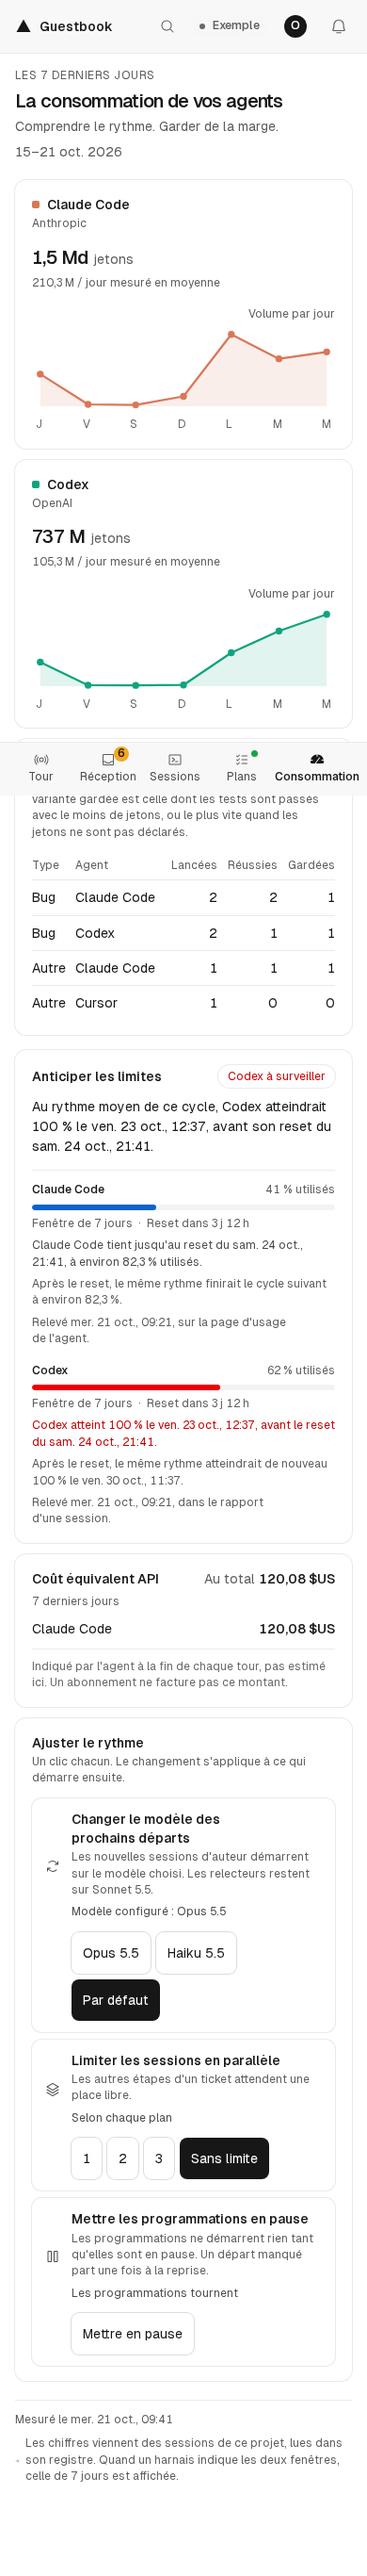
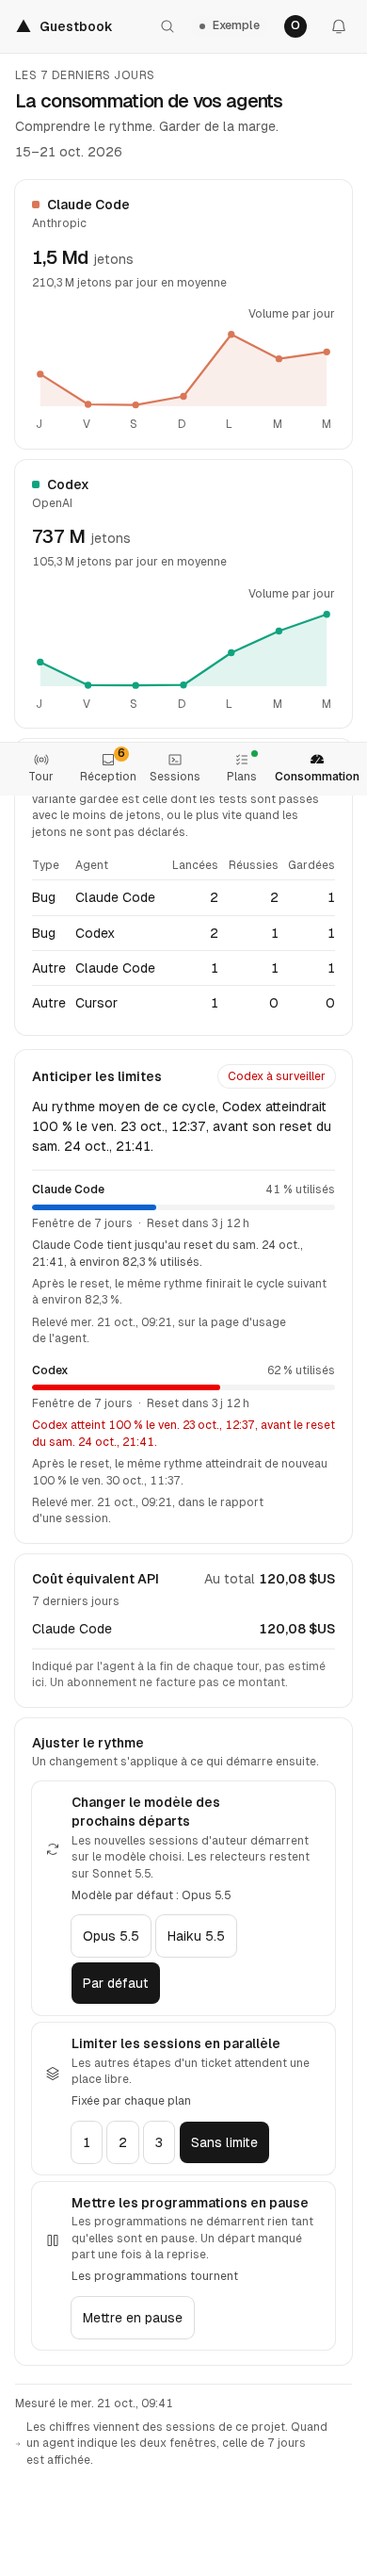
fix(v2): Consumption's words from the art director's pass, and the wins table's phone gap (lane j3-ui-polish, P221)
The per-day average has its unit; the footer says neither ledger nor
harness; the levers drop "One click each" and say "Default model" and
"Set by each plan"; the wins table's columns sit 6 px apart under 480 px
(10 px to spare in French at 375); the phone test waits for the fonts and
measures the table at min-content. The Consumption captures, retaken; the
log entry and the matrix line, updated.

diff --git a/v2/app/test/polish/phone-fit-browser.test.ts b/v2/app/test/polish/phone-fit-browser.test.ts
@@ -19,6 +19,8 @@ declare const document: any;
 declare const getComputedStyle: any;
 
 const WIDTHS = [375, 390] as const;
+// The page's own fonts, loaded: a width measured in the fallback font says nothing.
+const fontsReady = (page: any) => page.evaluate(() => document.fonts.ready.then(() => undefined));
 
 async function onPhone(language: 'en' | 'fr', width: number, run: (page: any, base: string) => Promise<void>): Promise<void> {
   const app = await startApp({ source: await fixtureSource({ now: () => FIXTURE_NOW }), extra: { language } });
@@ -51,6 +53,7 @@ for (const language of ['en', 'fr'] as const) {
       await onPhone(language, width, async (page, base) => {
         await page.goto(`${base}/consumption`);
         await page.locator('[data-wins="shown"]').waitFor();
+        await fontsReady(page);
         const wrapped = await page.locator('.wins-table th').evaluateAll((cells: any[]) => cells.flatMap((cell) => {
           const range = document.createRange();
           range.selectNodeContents(cell);
@@ -59,7 +62,14 @@ for (const language of ['en', 'fr'] as const) {
         }));
         assert.deepEqual(wrapped, [], 'no header on two lines');
         // Nor is the table wider than its panel: no column hidden behind a scroll (the art director's pass).
-        const box = await page.locator('.wins-scroll').evaluate((scroll: any) => ({ needs: scroll.scrollWidth, room: scroll.clientWidth }));
+        // The table's own width at its narrowest (min-content), not the 100 % it stretches to.
+        const box = await page.locator('.wins-scroll').evaluate((scroll: any) => {
+          const table = scroll.querySelector('table');
+          table.style.width = 'min-content';
+          const needs = Math.ceil(table.getBoundingClientRect().width);
+          table.style.width = '';
+          return { needs, room: scroll.clientWidth };
+        });
         assert.ok(box.needs <= box.room, `the table needs ${box.needs} px, its panel has ${box.room}`);
       });
     });
@@ -67,6 +77,7 @@ for (const language of ['en', 'fr'] as const) {
     test(`${language} at ${width}: a picked template's placeholder is said whole in the title's field`, { skip }, async () => {
       await onPhone(language, width, async (page) => {
         await page.locator('[data-bar="template"]').click();
+        await fontsReady(page);
         for (const id of ['bug', 'review', 'ci', 'question']) {
           await page.locator(`[data-template="${id}"]`).click();
           const fit = await page.locator('#ask-input').evaluate((input: any) => {

diff --git a/v2/app/test/consumption/model.test.ts b/v2/app/test/consumption/model.test.ts
@@ -132,10 +132,10 @@ test('the levers offer the models the owner may choose, never the reviewers\', a
   assert.deepEqual(model!.choices.map((c) => [c.label, c.pressed, c.change]), [
     ['Opus 5.5', false, { model: 'claude-opus-5-5' }], ['Haiku 5.5', false, { model: 'claude-haiku-5-5' }], ['Default', true, { model: null }],
   ]);
-  assert.equal(model!.state, 'Configured model: Opus 5.5');
+  assert.equal(model!.state, 'Default model: Opus 5.5');
   assert.match(model!.detail, /Reviewers stay on Sonnet 5\.5\./);
   assert.deepEqual(lanes!.choices.map((c) => [c.label, c.change]), [['1', { maxLanes: 1 }], ['2', { maxLanes: 2 }], ['3', { maxLanes: 3 }], ['No limit', { maxLanes: null }]]);
-  assert.equal(lanes!.state, 'As each plan says');
+  assert.equal(lanes!.state, 'Set by each plan');
   assert.deepEqual(pause!.choices.map((c) => [c.label, c.change]), [['Pause', { paused: true }]]);
   const on = leverViews({ model: { ...read().levers.model, choice: 'claude-haiku-5-5', current: 'claude-haiku-5-5' }, maxLanes: { choice: 1, options: [1, 2, 3] }, paused: true }, fr);
   assert.equal(on[0]!.state, 'Les nouveaux départs utilisent Haiku 5.5');

diff --git a/v2/app/web/screens/consumption/consumption.css b/v2/app/web/screens/consumption/consumption.css
@@ -101,7 +101,7 @@
 .wins-table .n { text-align: right; }
 /* The last column ends at the panel's edge; on a phone the columns sit closer, so the table fits its panel (P221). */
 .wins-table th:last-child, .wins-table td:last-child { padding-right: 0; }
-@media (max-width: 480px) { .wins-table th, .wins-table td { padding-right: 8px; } }
+@media (max-width: 480px) { .wins-table th, .wins-table td { padding-right: 6px; } }
 .wins-table .num { font-variant-numeric: tabular-nums; }
 .wins-empty { margin: 0; color: var(--text-muted); font-size: var(--text-md); }
 

diff --git a/docs/v2/decisions-log.md b/docs/v2/decisions-log.md
@@ -5703,22 +5703,25 @@ These pass on that code and are kept as guards: the map test, the tools assertio
 2. **The question card says nothing twice.** Its label is read out (`sr-only`), not drawn under the card's title; `plan_ask_opens` ("The answer opens on its own page…") is removed from both catalogs; the scope is one sentence: "Reads the base branch of guestbook, without this session's changes, and never edits the code." ("Lit la branche de base de guestbook, sans les changements de cette session, et ne modifie jamais le code."). Ask still answers an empty question with "Write the question first.", as lane `j3-plan-ask`'s browser test pins.
 3. **The agent pick's words.** "Cheapest" ("la moins coûteuse") was not the rule `flow/harness-pick.ts` applies: the subtitle and the inbox's rule now say "the fewest tokens, or in the shortest time when tokens are not reported". English says "agent pick", as the table's title and every French sentence say "agent", not "harness pick"; "Waiting for a lane" is "Waiting for a free slot" ("En attente d'une place libre"); French "Rien de commité" is "Aucun commit".
 4. **French Consumption says "jetons"**, as the session, the inbox, the questions and the receipt do (`consumption_usage_unit`, `consumption_day_usage`). No decision recorded "tokens" there: the commit that wrote it renamed the keys for the secrets guard and kept the value.
-5. **The wins table on a phone.** The headers are "Type" (not "Ticket type", which took three lines in French at 390) and keep one line; French agrees with "variantes" ("Lancées", "Gardées") and says "Réussies" for the green runs; the last column has no trailing padding and the columns sit 8 pixels apart under 480, so the table fits its panel at 375 and 390 in both languages.
+5. **The wins table on a phone.** The headers are "Type" (not "Ticket type", which took three lines in French at 390) and keep one line; French agrees with "variantes" ("Lancées", "Gardées") and says "Réussies" for the green runs; the last column has no trailing padding and the columns sit 6 pixels apart under 480, so the table fits its panel at 375 and 390 in both languages (in French at 375 its narrowest width is 297 pixels of 307).
 6. **The templates.** The title's placeholders are short ("What breaks", "Ce qui casse"…): "Ce qui casse, en quelques mots" was cut by New ticket at 390. The row of templates no longer starts with the word "Template", which the chip above it already says.
 7. **A release with no picture at all** says "No picture of this screen." ("Pas d'image de cet écran.") once, under the section's title, with no empty frame and no Computer/Phone switch; one picture on either side keeps the two frames. On a phone this brings the facts above the buttons.
 8. **The receipt.** No capture is "Captures: none taken" ("Captures : aucune"): the engine leaves the list empty for any reason, so the old "(the flow has no browser…)" guessed. The figures' source is "the agents", as on the ticket card, not "the harness". From the art director: "{parts} kept by Cleared, without a link" and "ran inside a larger command, so its result is unknown".
-9. **Durations.** Every duration on these screens already goes through `lib/time.ts` (`lasted`, `duration`), in the page's language; the shell's format ("3d 12h", "1 h 04") is not changed here.
-10. **Not taken, logged.** The composer, Hand over and Interrupt on a Done session (a change of behaviour); "Close" read as "close this panel" (the form it opens says "Close the ticket"); disabling Ask on an empty question (a pinned behaviour); one money format (P211 keeps four decimals under a dollar on purpose); the ticket card's tokens beside the session's (different scopes, no label); the plan-ask fixtures' session with no service (the card says "every service"); "Signed in as owner" in French; the bottom bar's "Consommation", which the mobile lane noted as a few pixels too wide (it fits its slot here at 375 and 390: each slot grows to its label; the test written for it passed on the old code and was dropped).
+9. **Consumption's words** (the art director's pass): the per-day average has its unit ("210.3M tokens per day on average", "210,3 M jetons par jour en moyenne"); the footer no longer says "ledger" or "harness" ("Figures come from this project's sessions. When an agent reports both windows, the seven-day one is shown."); the levers' "One click each." is gone ("A change applies to what starts next."); the model lever, on Default, says "Default model: Opus 5.5", not "Configured model"; the sessions lever says "Set by each plan" ("Fixée par chaque plan"), not "As each plan says".
+10. **Durations.** Every duration on these screens already goes through `lib/time.ts` (`lasted`, `duration`), in the page's language; the shell's format ("3d 12h", "1 h 04") is not changed here.
+11. **Not taken, logged.** The composer, Hand over and Interrupt on a Done session (a change of behaviour); "Close" read as "close this panel" (the form it opens says "Close the ticket"); disabling Ask on an empty question (a pinned behaviour); one money format (P211 keeps four decimals under a dollar on purpose); the ticket card's tokens beside the session's (different scopes, no label); the plan-ask fixtures' session with no service (the card says "every service"); the bottom bar's "Consommation", which the mobile lane noted as a few pixels too wide (it fits its slot here at 375 and 390: each slot grows to its label; the test written for it passed on the old code and was dropped).
 
-**Tests first.** `d02771a` adds five named captures to `scripts/capture-screens.ts` (consumption, tower-template, resolved, plan-ask, inbox-release) and the before set. `ae54daf` commits the tests alone: in `app/web/test/ui-polish.test.tsx`, seven of eight fail on that code (the eighth, a running ticket keeps its "yet", guards the other side); both tests of `test/flow/receipt-words.test.ts` fail; in `app/test/polish/phone-fit-browser.test.ts` the eight tests fail (each header on one line, each placeholder whole, at 375 and 390, in both languages). The art director's first item (below) added an assertion to that file, that the table fits its panel, which failed on `b5ecebc` at 375 in English and at 375 and 390 in French. The file is in the CI's `browser` job list. Assertions of earlier tests changed with the words, not as defect tests: `consumption-wins.test.tsx`, `inbox/harness-pick.test.tsx`, `inbox/render.test.tsx`, `session/plan-ask.test.tsx`, `tower-templates.test.tsx`, `i18n-audit.test.tsx` (`consumption_wins_type` joins the words both languages share, `consumption_usage_unit` leaves them), `app/test/session/plan-ask.test.ts`, `plan-ask-browser.test.ts`, `tower-templates-browser.test.ts`, `consumption/wins-browser.test.ts`, `test/flow/receipt.test.ts`.
+**Tests first.** `d02771a` adds five named captures to `scripts/capture-screens.ts` (consumption, tower-template, resolved, plan-ask, inbox-release) and the before set. `ae54daf` commits the tests alone: in `app/web/test/ui-polish.test.tsx`, seven of eight fail on that code (the eighth, a running ticket keeps its "yet", guards the other side); both tests of `test/flow/receipt-words.test.ts` fail; in `app/test/polish/phone-fit-browser.test.ts` the eight tests fail (each header on one line, each placeholder whole, at 375 and 390, in both languages). The art director's first item (below) added an assertion to that file, that the table fits its panel, which failed on `b5ecebc` at 375 in English and at 375 and 390 in French. The file is in the CI's `browser` job list; it waits for the page's fonts before it measures, and measures the table at its narrowest width (`min-content`), not the 100 % it stretches to. `06f5921` commits the test of Consumption's words alone: it failed on that code at its first assertion, in English (the average's unit). Assertions of earlier tests changed with the words, not as defect tests: `consumption-wins.test.tsx`, `inbox/harness-pick.test.tsx`, `inbox/render.test.tsx`, `session/plan-ask.test.tsx`, `tower-templates.test.tsx`, `i18n-audit.test.tsx` (`consumption_wins_type` joins the words both languages share, `consumption_usage_unit` leaves them), `app/test/session/plan-ask.test.ts`, `plan-ask-browser.test.ts`, `tower-templates-browser.test.ts`, `consumption/wins-browser.test.ts`, `test/flow/receipt.test.ts`.
 
 **Captures.** On the fixtures source with the repository's script, ports 0 on loopback, no page error and no request off the app's origins: before in `docs/v2/ui-polish/before/`, after in `docs/v2/ui-polish/after/`, at 1440, 1280, 768 and 390, light and dark, in English, and at 1440 and 390 in French. The proof receipt is Markdown with no screen; its words are covered by the receipt tests.
 
-**Art-director pass** (Sonnet 5.5 in a fresh agent, on the after captures and the code, Impeccable's critique and polish read by itself). Taken before the merge: the French wins table hid its last column behind a scroll at 390 (made wider by this lane's one-line headers; item 5), the question card's scope sentence (item 2), the receipt's `receipt_kept` and `receipt_run_unclear` (item 8). Not taken, all on Consumption's older words (O15) or older screens, for a lane of their own: a unit after the per-day average, "harness" and "ledger" in the footer, French "reset", the levers' "One click each", "As each plan says", "Configured model" beside a selected Default, the steps' "waits for 1", the placeholder's `service:path:line` (the syntax the question's parser reads to pick the service), "Signed in as owner". Logged too: the Tower bar's actions hidden at 390, raw model ids in the Tower's rows, the charts' day letters, the Done session's composer.
+**Art-director pass** (Sonnet 5.5 in a fresh agent, on the after captures and the code, Impeccable's critique and polish read by itself). Taken before the merge: the French wins table hid its last column behind a scroll at 390 (made wider by this lane's one-line headers; item 5), the question card's scope sentence (item 2), the receipt's `receipt_kept` and `receipt_run_unclear` (item 8), and Consumption's five wording items (item 9). Not taken: French "reset" (about eight keys of O15's projections and three tests, a vocabulary of its own); the steps' "waits for 1" (lane 27's step lines, which need a plural key); the placeholder's `service:path:line` (the syntax the question's parser reads to pick the service). Its "Signed in as owner" is a false positive: "owner" is the fixtures' sign-in name (the capture script's account), not a role code. Logged too: the Tower bar's actions hidden at 390, raw model ids in the Tower's rows, the charts' day letters, the Done session's composer.
 
 **Checks.** `npm run typecheck` passes. `npm test`: 2094 Node tests, 2016 pass, 78 skipped (`CLEARED_V2_PLAYWRIGHT` and `CLEARED_V2_REAL_HARNESS` unset), 0 fail; 338 Vitest tests pass. One earlier full run failed `test/mcp/followups.test.ts`'s closed-stdout test, the race earlier lanes logged; run alone it passed two times of three, and this lane does not touch it. The CI's `browser` list, this lane's file added (21 files), with `CLEARED_V2_PLAYWRIGHT`: 62 of 64. The screen-switch budget failed under the load of 21 files at once and passed twice alone (a p95 of 31.9 and 35.9 ms). `app/test/notify/browser.test.ts` times out on this host, and does the same on an untouched `origin/v2` (`2a8e785`) built in a temporary worktree: it is not this lane's, and its CI run decides. The browser files of these screens after the art director's pass: 18 of 18. `npm run guard -- --base origin/v2`: nothing refused (run without a private-term list, `CLEARED_REPO` unset).
 
 **The merge of 363 and 364** (lanes `j3-flaky-page` and `j3-no-bash-core`, at `origin/v2` `ac24420`). The log keeps their entries, then this one; the matrix merged by itself, every id once. After the merge: `npm run typecheck` passes; `npm test` runs 2100 Node tests, 2022 pass, 78 skipped, 0 fail, and 338 Vitest tests pass; `npm run guard -- --base origin/v2`: nothing refused.
+
+**After the art director's Consumption items** (and the 6-pixel gap): `npm run typecheck` passes; `npm test` runs 2100 Node tests, 2022 pass, 78 skipped, 0 fail, and 339 Vitest tests pass; the browser files of Consumption and `phone-fit-browser.test.ts`: 14 of 14; the root tests that read the docs or the workflows (`ci-triggers`, `neutral-project`, `fast-lane`, `merge`): 101 of 101; `npm run guard -- --base origin/v2`: nothing refused; the diff holds no person's or project's name (a grep, the guard having no private-term list).
 
 **Resources.** No Docker object, no Claude Code, Slack, Cursor or Codex account, no network beyond `npm ci` of the lock file and Impeccable's install, no tunnel, no secret; the app and the browser listen on port 0 on loopback.
 

diff --git a/docs/v2/requirements-matrix.md b/docs/v2/requirements-matrix.md
@@ -361,7 +361,7 @@ Every requirement of the brief (the orchestrator's prompt and the owner's decisi
 | P218 | Post-deploy verification: after the human approves a release, capture the production page and attach it to the report; Cleared never deploys | 3 | issue #334; lane `j3-post-deploy`: `[release] production_url` in the service's `.cleared/agents.conf` (`flow/config.ts`, http or https, no credentials); at `release_landed`, one-service or train, each service whose own watch ended healthy has that page captured by `captureProduction` (`flow/proof-capture.ts`: one screenshot, GET and HEAD of the page's own origin only, no WebSocket, no service worker, a code for what failed, the receipt's cap), journaled as `cleared.production_checked` on the release's session, said in a ticket comment, served by `GET /api/tickets/:id/production` and the receipt's file route (`production.png`), and shown on the Done ticket card (FR/EN); no health check: no page opened, the card says why | `test/flow/production.test.ts` (approved, merged, healthy: once; nothing before the approval, while watching, after a rollback; no health check; no `production_url`; a capture that throws or hangs; the routes), `test/flow/train.test.ts` (a train's two services), `test/flow/production-capture.test.ts` (with `CLEARED_V2_PLAYWRIGHT`: a real Chromium on a fake production page on loopback, only GETs reach it), `test/flow/never-deploys.test.ts` (no route, no effect, no command of the service deploys), `test/flow/config.test.ts`, `app/web/test/session/production-check.test.tsx` (fr and en), `app/test/session/production-browser.test.ts` (Chromium, fr and en, 1440 to 390, light and dark) | done (on fakes and a fake page; no real production page of a piloted project was opened: it needs a project that sets `production_url`) |
 | P219 | Token reduction: stable prompts and tool grouping for the prompt cache, measured before/after | 3 | issue #335; 354 (lane `j3-prompt-cache`: the runner's system prompt without the preset's per-session sections, `excludeDynamicSections` and `snapshot`; the lead's briefing from what changes least to what changes most, its number and time last; the tools already one fixed list per role, now pinned) | `test/scripts/prompt-cache.test.ts` (the cache model and the reference fake run, `scripts/prompt-cache.ts`: 20.5 % of the estimated input tokens served before, 36.1 % after, in the log of 2026-10-25), `test/lead/briefing.test.ts` (two generations share their briefing up to the memory), `test/session/claude-code/runner.test.ts`, `test/session/claude-code/map.test.ts` (the moved context is no event), `test/lead/engine.test.ts` and `test/flow/plan-gate.test.ts` (the tools, byte for byte) | done (measured on a fake run with a model of the cache, tokens estimated; the 36.1 % assumes the cache reads at the end of the system prompt, which `sdk.d.ts` does not promise across sessions, and without that entry the run shares 4.0 % before and after; not measured: a real run's `cachedInputTokens` and the real CLI with the two options, `docs/adapters.md`) |
 | P220 | The lanes' MCP route reads its words and its cleaner at the service's start, and no module starts without a ledger (issues #348 and #349, follow-ups of P216): `CLEARED_V2_APP_LANGUAGE` and `createRedactor` (the secrets of the environment and the ledger's folder) read in the flow module's `start`, engine or not, no longer at its import; `lanesMcpRoutes` takes them as getters and makes the tool server again when they change; the comment of `ledgerFolder` says what holds: `main.ts` exits with 64 before it listens when the ledger has no place, so the modules never start without one | 3 | 355 (lane `j3-mcp-startup`) | `test/flow/mcp-startup.test.ts` (French at the import, English at the start: `POST /mcp` refuses in English), `test/main.test.ts` (a ledger the service cannot place: exit 64, nothing listens, before any module starts), `test/mcp/lanes-http.test.ts` | done (the cleaner moves with the language; no test sets a secret between the import and the start, which needs an engine and a tool call) |
-| P221 | The screens of the ten ideas polished before `v2` goes to `main` (ui-overhaul-plan.md section 5, the art director's fresh look; no new feature): a Done ticket's right column says "No file changed." and "No check reported." and draws no Screen card that can only be empty, a running ticket keeps its "yet"; the Plan tab's question card reads its label out instead of drawing it under its title, has no sentence about where the answer opens, and says what the reader reads in one plain sentence; the agent pick says the rule it applies (the fewest tokens, else the shortest time), never "cheapest", "harness pick" or "lane"; French Consumption says "jetons"; the wins table keeps each header on one line and fits its panel at 375 and 390; a picked template's title placeholder is not cut by New ticket and its row does not repeat the chip; a release with no picture at all says so in one line, with no empty frame and no switch; the proof receipt claims no cause for missing captures and names the agents as its figures' source | 3 | lane `j3-ui-polish` | `app/web/test/ui-polish.test.tsx`, `test/flow/receipt-words.test.ts`, `app/test/polish/phone-fit-browser.test.ts` (in the CI's `browser` job); the captures in `docs/v2/ui-polish/{before,after}/`; the log entry of 2026-10-25 (Impeccable's critique and the art director's pass) | done |
+| P221 | The screens of the ten ideas polished before `v2` goes to `main` (ui-overhaul-plan.md section 5, the art director's fresh look; no new feature): a Done ticket's right column says "No file changed." and "No check reported." and draws no Screen card that can only be empty, a running ticket keeps its "yet"; the Plan tab's question card reads its label out instead of drawing it under its title, has no sentence about where the answer opens, and says what the reader reads in one plain sentence; the agent pick says the rule it applies (the fewest tokens, else the shortest time), never "cheapest", "harness pick" or "lane"; French Consumption says "jetons"; the wins table keeps each header on one line and fits its panel at 375 and 390; Consumption's per-day average has its unit, its footer no internal word, its levers a plain state; a picked template's title placeholder is not cut by New ticket and its row does not repeat the chip; a release with no picture at all says so in one line, with no empty frame and no switch; the proof receipt claims no cause for missing captures and names the agents as its figures' source | 3 | lane `j3-ui-polish` | `app/web/test/ui-polish.test.tsx`, `test/flow/receipt-words.test.ts`, `app/test/polish/phone-fit-browser.test.ts` (in the CI's `browser` job); the captures in `docs/v2/ui-polish/{before,after}/`; the log entry of 2026-10-25 (Impeccable's critique and the art director's pass) | done |
 
 ## Reste avant v2 -> main
 
